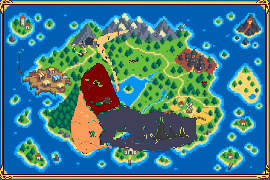
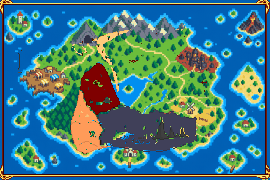
web client: crop the GPT render's own gold frame — it sat inside a blue ocean margin
The GPT image's frame does not start at the edge: blue ocean margin first,
THEN the gold ring, THEN the map. The previous edge-scan found nothing and
kept the ring baked into the 270x180 downscale (the user's lingering
gold/red/dark band). Detect the dominant-gold band per edge and crop just
inside its inner boundary.

🤖 Generated with Codebuff

diff --git a/scripts/_build_hub_worldmap.py b/scripts/_build_hub_worldmap.py
@@ -1,0 +1,81 @@
+"""Build the final hub world map asset:
+1. Source = the user's GPT render (retro 96-color look they chose).
+2. CROP off the GPT-generated golden frame (keep only the inner map/ocean).
+3. True-downscale to 270x180 + flat 96-color quantize (retro pixel look).
+4. Composite the hollow ORIGINAL Kaetram frame ring on top -> this becomes
+   web_client/public/ui/kaetram/interface/mapframe_custom.png
+(The CSS keeps the Kaetram frame visuals: we bake map under the ring into
+one PNG so no CSS layering is needed, and the close button area is intact.)
+"""
+import numpy as np
+from PIL import Image
+
+src = Image.open(r"C:\Users\phant\Downloads\ChatGPT Image 01_39_44 28 thg 9, 2026.png").convert("RGB")
+w, h = src.size
+
+# --- locate the golden GPT frame and crop INSIDE it -------------------
+# gold: high r, mid g, low b
+px = src.load()
+
+def is_goldish(c):
+    r, g, b = c
+    return r > 170 and g > 110 and b < 110 and (r - b) > 90
+
+# The GPT frame does NOT start at the image edge: outside it there is a
+# blue ocean margin, THEN the gold ring, THEN the map. So detect the gold
+# BAND range per edge (first/last mostly-gold row/col) and crop just inside
+# its inner boundary. Measured on the actual render: gold band at y≈8-16.
+def gold_band(axis, reverse):
+    """(first, last) index of the dominant-gold band along an edge."""
+    bands = []
+    for i in range(120):
+        if axis == "row":
+            cnt = sum(1 for x in range(0, w, 13) if is_goldish(px[x, i if not reverse else h - 1 - i]))
+            total = len(range(0, w, 13))
+        else:
+            cnt = sum(1 for y in range(0, h, 13) if is_goldish(px[i if not reverse else w - 1 - i, y]))
+            total = len(range(0, h, 13))
+        if cnt >= total * 0.6:
+            bands.append(i)
+    if not bands:
+        return None
+    return (bands[0], bands[-1])
+
+top_band = gold_band("row", False)
+bot_band = gold_band("row", True)
+left_band = gold_band("col", False)
+right_band = gold_band("col", True)
+print("gold bands:", top_band, bot_band, left_band, right_band)
+ft = (top_band[1] + 2) if top_band else 0
+fb = (bot_band[1] + 2) if bot_band else 0
+fl = (left_band[1] + 2) if left_band else 0
+fr = (right_band[1] + 2) if right_band else 0
+print(f"crop: L{fl} R{fr} T{ft} B{fb}")
+inner = src.crop((fl, ft, w - fr, h - fb))
+print("inner size:", inner.size)
+
+# --- true downscale + retro flat quantize -----------------------------
+small = inner.resize((270, 180), Image.BOX)
+q = small.quantize(colors=96, method=Image.MEDIANCUT, dither=Image.NONE).convert("RGB")
+q.save("exported_map_art/worldmap_hub_inner.png")
+
+# --- composite the hollow Kaetram ring on top -------------------------
+hollow = Image.open("web_client/public/ui/kaetram/interface/mapframe_hollow.png").convert("RGBA")
+base = q.convert("RGBA")
+base.alpha_composite(hollow)
+base.save("web_client/public/ui/kaetram/interface/mapframe_custom.png")
+base.resize((810, 540), Image.NEAREST).save("exported_map_art/mapframe_custom_x3.png")
+print("saved -> web_client/public/ui/kaetram/interface/mapframe_custom.png")
+
+# --- markers check on the final asset ---------------------------------
+import json
+from PIL import ImageDraw
+mk = json.load(open("exported_map_art/warp_markers.json"))
+vis = base.convert("RGB").resize((810, 540), Image.NEAREST)
+d = ImageDraw.Draw(vis)
+for m in mk["markers"]:
+    x, y = m["x"] / 270 * 810, m["y"] / 180 * 540
+    d.ellipse([x - 8, y - 8, x + 8, y + 8], outline=(0, 255, 60), width=2)
+    d.text((x + 9, y - 6), str(m["id"]), fill=(0, 255, 60))
+vis.save("exported_map_art/mapframe_custom_markers_x3.png")
+print("marker check -> exported_map_art/mapframe_custom_markers_x3.png")
